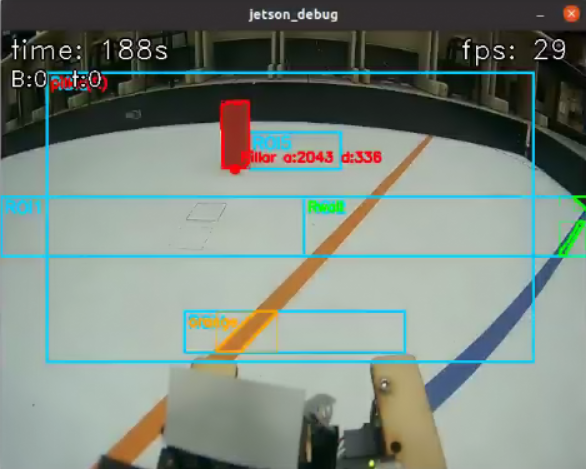
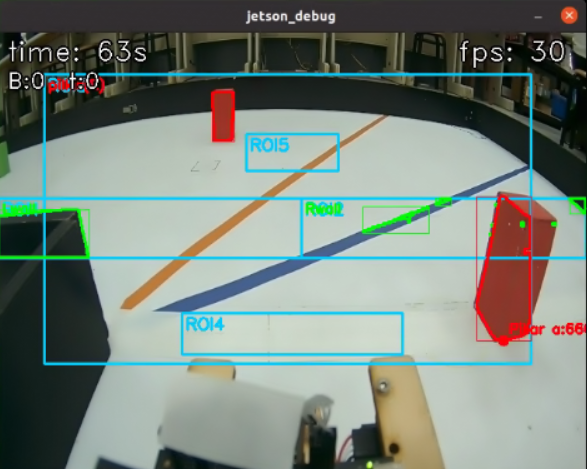
1102

diff --git a/src/Steering_Control/README.md b/src/Steering_Control/README.md
@@ -4,14 +4,11 @@
 
  - ### Vehicle steering control-車輛轉向控制
     ### 中文:
-   1. 轉向訊號來源與作用
-   - 當攝影機偵測到地面藍線或橘線時，系統啟動轉向判斷流程。
-   - 以「側壁高亮值」監控左右距離，維持安全間隙，避免擦撞。
-   - 藍線與橘線負責提供「轉彎方向」線索，確保車輛能在彎道或轉角處安全、精準導航。
-   2. 接近度評估與方向選擇
-   - 車輛行進中，系統持續量測「側壁高亮值」與地面藍/橘線。
-   - 接近彎道時，比較藍線與橘線在影像中的 y 軸位置。距離越近，y 值越大。
-   - 取 y 軸值最大的顏色 作為本次轉向依據，以此決定左轉或右轉。
+    1. **方向判斷(turnDir)**:
+     - 若偵測到橘線的輪廓面積 (maxO) 超過閾值 (> 110)，則判斷為右轉 ("right")。
+     - 若偵測到藍線的輪廓面積 (maxB) 超過閾值 (> 110)，則判斷為左轉 ("left")。
+    2. **彎道進入訊號 (tSignal)**:
+      - 一旦確認了轉向方向，且偵測到對應的標線（例如，方向為右轉時，maxO > 100），則會設置轉向訊號旗標 (tSignal = True)，同時設置 rTurn 或 lTurn 旗標。
    3. 安全門檻與轉向執行
    - 確認方向後，進一步檢查影像左右側的「側壁高亮值」。
    - 只有當對應側的高亮值 ≥ 4500 時，才允許下達轉向指令。
@@ -42,38 +39,41 @@
         print(t, lTurn, rTurn, leftArea, rightArea, cPillar.target, angle, f"{relative_heading:.2f}",
               "mag6:", mag6_area, mag6_center)
     ```
-
-    <div align=center>
+     <div align=center>
         <table>
-          <tr>
-            <th>Blue Line Recognition(藍線偵測)</th>
-            <th>Orange Line Recognition(橘線偵測)</th>
-            <th>Traffic Signal Evaluation and Steering Control(有交通號誌轉彎)</th>
-          </tr>
-          <tr>
-            <td align=center><img src="./img/Blue Line Recognition.png" width=400 /></td>
-            <td align=center><img src="./img/Orange Line Recognition.png" width=400 /></td>
-            <td align=center><img src="./img/Traffic Signal Evaluation and Steering Control.png" width=400 /></td>
-          </tr>
+        <tr>
+        <th>Blue Line Recognition(藍線偵測).</th>
+        <th>Orange Line Recognition(橘線偵測)</th>
+        </tr><tr>
+        <td><img src="./img/Blue Line Recognition.png" width=400 ></td>
+        <td><img src="./img/Orange Line Recognition.png" width="350"></td>
+        </tr>
         </table>
-      </div>
-    <div align=center>
-    <div align=center>
+        </div>
+     <div align=center>
         <table>
-          <tr>
-            <th>Unsignalized Intersection Steering Control(非交通號誌轉彎)</th>
-            <th>Inner Side Obstacle Avoidance and Steering Control(內側避障轉彎控制)</th>
-            <th>ROI 5-Based Inner Obstacle Avoidance and Steering Control(內側避障ROI5觸發轉彎控制)</th>
-          </tr>
-          <tr>
-            <td align=center><img src="./img/Blue Line Recognition.png" width=400 /></td>
-            <td align=center><img src="./img/Inner Side Obstacle Avoidance and Steering Control.png" width=400 /></td>
-            <td align=center><img src="./img/ROI 5-Based Inner Obstacle Avoidance and Steering Control.png" width=400 /></td>
-          </tr>
+        <tr>
+        <th>Turning with traffic signals(有交通號誌轉彎)</th>
+        <th>Turning without traffic signals(沒有交通號誌轉彎)</th>
+        </tr><tr>
+        <td><img src="./img/Traffic Signal Evaluation and Steering Control.png" width=400 ></td>
+        <td><img src="./img/Unsignalized Intersection Steering Control.png" width="350"></td>
+        </tr>
         </table>
-      </div>
-    <div align=center>
+        </div>
+     <div align=center>
+        <table>
+        <tr>
+        <th>ROI5 assists in corner detection before turning.(轉彎前ROI5輔助轉彎偵測)</th>
+                <th>ROI 5 assisted turning detection(ROI5輔助轉彎偵測)</th>
+        </tr><tr>
+        <td><img src="./img/Inner Side Obstacle Avoidance and Steering Control.png" width="350"></td>
+        <td><img src="./img/ROI 5 assisted turning detection.png" width=400 ></td>
+        </tr>
+        </table>
+        </div>   
 
+  
 </div> 
 
 - ### Vehicle block avoidance control-車輛避障控制
